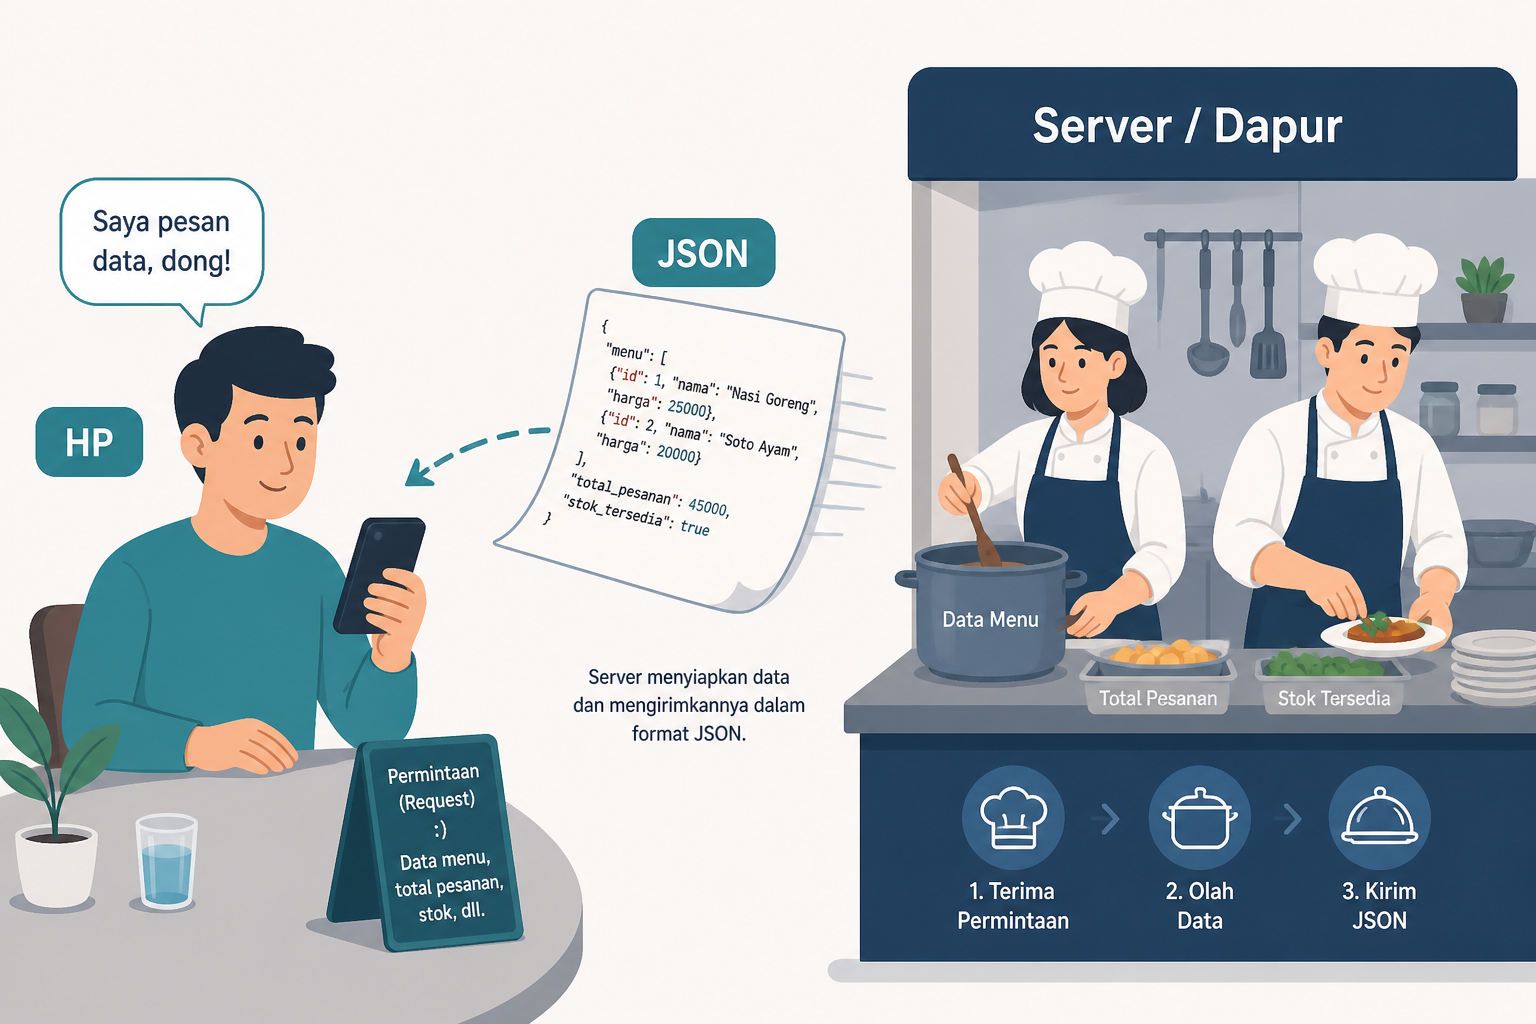
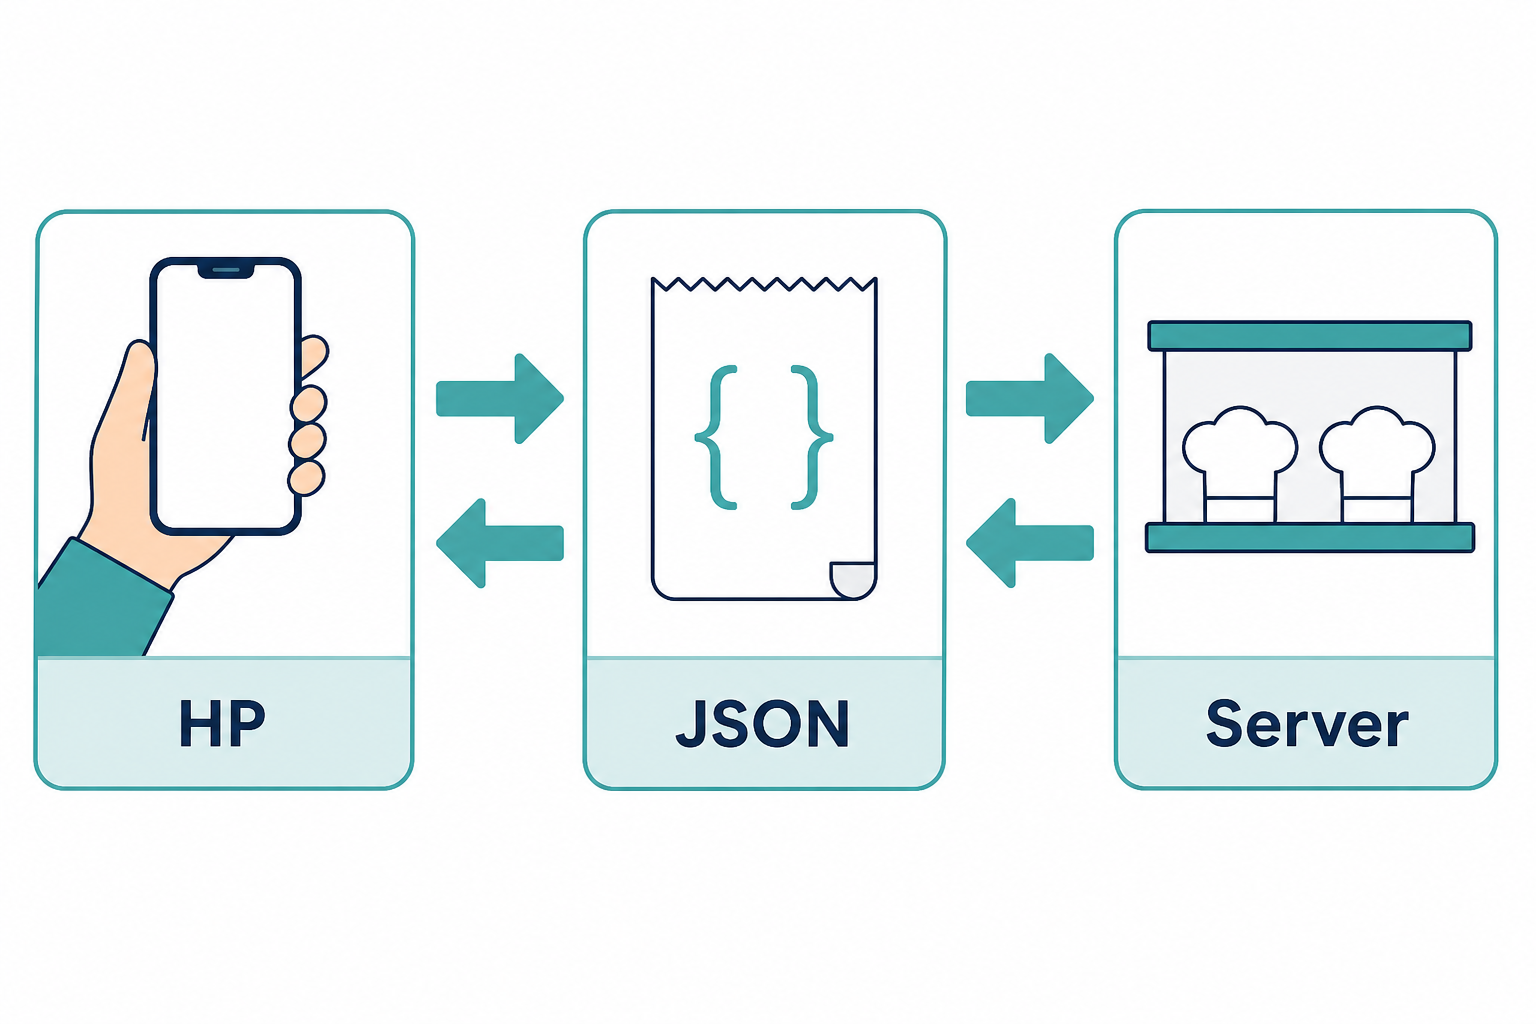
Replace garbled UI mockups with readable diagrams so GitHub articles stay clear.

diff --git a/modul-00-persiapan/README.md b/modul-00-persiapan/README.md
@@ -18,9 +18,14 @@ Sebelum mengetik perintah apa pun, lihat tabel ini. Salah alat = perintah "tidak
 | 5 | [Android Studio](https://developer.android.com/studio) | SDK Android, emulator, driver USB |
 | 6 | Emulator Android **atau** HP Android | Melihat aplikasi |
 
-![Urutan buka alat: peramban, VS Code, terminal, emulator](images/urutan-buka-alat.png)
+```mermaid
+flowchart LR
+  A["1. Peramban DartPad"] --> B["2. VS Code"]
+  B --> C["3. Terminal VS Code"]
+  C --> D["4. Emulator atau HP"]
+```
 
-*Ilustrasi asli materi mobile2026. Bukan tangkapan layar produk bermerek.*
+Teks di diagram itu sengaja singkat. Perincian ada di tabel di atas, supaya tidak ada tulisan kecil yang pecah saat GitHub mengecilkan gambar.
 
 ### Pintasan yang akan sering dipakai
 
@@ -45,9 +50,9 @@ Aplikasi mobile berbeda dari situs web dalam tiga hal yang terasa di tangan:
 
 Di belakang layar, aplikasi Anda tetap seperti restoran:
 
-![Analogi HP sebagai tamu, JSON sebagai nota, server sebagai dapur](images/analogi-hp-dapur.png)
+![Analogi: HP, JSON, dan server](images/analogi-hp-dapur.png)
 
-*Ilustrasi asli materi mobile2026.*
+*Ilustrasi asli materi mobile2026. Baca tabel di bawah ini untuk arti setiap kotak.*
 
 | Di restoran | Di aplikasi |
 | --- | --- |
@@ -59,7 +64,7 @@ Detail JSON dan HTTP ada di Modul 07. Sekarang cukup ingat: **tampilan dan data 
 
 ![Tiga lapisan: tampilan, logika Dart, data](images/tiga-lapisan-app.png)
 
-*Ilustrasi asli materi mobile2026.*
+*Ilustrasi asli materi mobile2026. Penjelasan lengkap ada di daftar bernomor di atas.*
 
 ---
 
@@ -69,7 +74,9 @@ Satu basis kode Dart dapat menjadi aplikasi Android dan iOS. Materi ini memakai 
 
 **Penting untuk Windows:** dari Windows Anda dapat membangun dan menguji **Android**. Membangun iOS memerlukan Mac. Konsep iOS tetap dijelaskan. Praktik rilis (Modul 10) berfokus ke Google Play Store.
 
-Sumber: [docs.flutter.dev/install](https://docs.flutter.dev/install).
+Sumber instalasi: [docs.flutter.dev/install](https://docs.flutter.dev/install).
+
+Diagram lapisan resmi Flutter SDK (boleh dibuka, tidak wajib dihapal sekarang): [Flutter architectural overview](https://docs.flutter.dev/resources/architectural-overview). Sumber: Flutter.dev / Google. Flutter and the related logo are trademarks of Google LLC.
 
 ---
 
@@ -92,11 +99,15 @@ void main() {
 }
 ```
 
-![Sketsa playground kode di peramban: editor, tombol Run, keluaran](images/uji-kode-peramban.png)
+Letak tombol di DartPad (tampilan sungguhan ada di situs resminya):
 
-*Ilustrasi asli materi mobile2026. Tampilan DartPad sungguhan bisa berbeda; yang penting ada editor, tombol Run, dan panel keluaran. Sumber alat: [dartpad.dev](https://dartpad.dev) (Dart team / Google).*
+```mermaid
+flowchart LR
+  A["Kiri: editor kode"] --> B["Tombol Run"]
+  B --> C["Kanan: Console / keluaran"]
+```
 
-Jika tombol Run tidak merespons, nonaktifkan pemblokir iklan untuk situs itu, atau ganti peramban.
+Sumber alat: [dartpad.dev](https://dartpad.dev) (Dart team / Google). Jika tombol Run tidak merespons, nonaktifkan pemblokir iklan untuk situs itu, atau ganti peramban.
 
 DartPad juga bisa menjalankan widget Flutter di web. Itu cukup untuk mencoba tampilan. **Emulator / HP tetap wajib** mulai proyek sungguhan, karena kamera, notifikasi, dan toko aplikasi tidak lengkap di DartPad.
 
@@ -493,10 +504,10 @@ Aplikasi **Halo, namaku …** berjalan di emulator atau HP, diubah dari templat 
 
 | Aset | Sumber |
 | --- | --- |
-| `images/urutan-buka-alat.png` | Ilustrasi asli materi mobile2026 |
 | `images/analogi-hp-dapur.png` | Ilustrasi asli materi mobile2026 |
 | `images/tiga-lapisan-app.png` | Ilustrasi asli materi mobile2026 |
-| `images/uji-kode-peramban.png` | Ilustrasi asli materi mobile2026; alat acuan [dartpad.dev](https://dartpad.dev) |
+| Diagram alur alat dan instalasi | Mermaid di berkas ini (dirender GitHub) |
+| DartPad | [dartpad.dev](https://dartpad.dev) |
 | Langkah instalasi Flutter SDK | [docs.flutter.dev/install/with-vs-code](https://docs.flutter.dev/install/with-vs-code) |
 | Android toolchain | [docs.flutter.dev/platform-integration/android/setup](https://docs.flutter.dev/platform-integration/android/setup) |
 | Troubleshooting | [docs.flutter.dev/install/troubleshoot](https://docs.flutter.dev/install/troubleshoot) |

diff --git a/modul-01-dart/README.md b/modul-01-dart/README.md
@@ -17,9 +17,14 @@ Hampir semua contoh di modul ini diuji di **DartPad**, supaya hasilnya terlihat 
 | 3 | Tombol **Run** | Menjalankan `main()` |
 | 4 | (Opsional) Terminal VS Code | `dart` lokal, setelah Modul 00 selesai |
 
-![Sketsa playground: editor, tombol Run, keluaran](images/uji-kode-peramban.png)
+```mermaid
+flowchart LR
+  A["1. Buka dartpad.dev"] --> B["2. Mode Dart"]
+  B --> C["3. Tempel kode + Run"]
+  C --> D["4. Baca Console"]
+```
 
-*Ilustrasi asli materi mobile2026. Tampilan DartPad sungguhan: [dartpad.dev](https://dartpad.dev).*
+Tampilan DartPad sungguhan: [dartpad.dev](https://dartpad.dev). Jangan memakai sketsa palsu sebagai acuan tombol; ikuti situs resmi.
 
 ### Pola uji (ulangi setiap contoh)
 
@@ -259,9 +264,9 @@ Jangan membiasakan `nama!` (tanda seru) kecuali Anda benar-benar yakin. Itu cara
 
 **Class** = cetakan. **Object** (instance) = hasil cetakan.
 
-![Cetakan kue sebagai class, cupcake sebagai object](images/analogi-class-object.png)
+![Cetakan kue sebagai class, hasil kue sebagai object](images/analogi-class-object.png)
 
-*Ilustrasi asli materi mobile2026.*
+*Ilustrasi asli materi mobile2026. Class = cetakan. Object = kue yang sudah jadi.*
 
 ```dart
 class Kue {
@@ -536,10 +541,9 @@ Kunci di akhir berkas. Jawab dulu.
 
 | Aset | Sumber |
 | --- | --- |
-| `images/uji-kode-peramban.png` | Ilustrasi asli materi mobile2026; alat acuan [dartpad.dev](https://dartpad.dev) |
 | `images/analogi-class-object.png` | Ilustrasi asli materi mobile2026 |
+| Alur uji DartPad | Mermaid di berkas ini; alat: [dartpad.dev](https://dartpad.dev) |
 | Bahasa Dart | [dart.dev/language](https://dart.dev/language) |
 | Null safety | [dart.dev/null-safety](https://dart.dev/null-safety) |
-| DartPad | [dartpad.dev](https://dartpad.dev) |
 
 Flutter and the related logo are trademarks of Google LLC. We are not endorsed by or affiliated with Google LLC.

diff --git a/SILABUS.md b/SILABUS.md
@@ -29,8 +29,8 @@ Supaya pembaca tidak menebak alat, setiap modul memakai pola yang sama:
 2. Setiap perintah punya kotak: buka apa, ketik apa, apa tanda berhasil.
 3. Sintaks Dart diuji di [DartPad](https://dartpad.dev) dulu, kecuali topik itu memang membutuhkan emulator atau HP.
 4. Perintah `flutter` / `git` / `dart` lokal diketik di **Terminal VS Code** (`Ctrl + J`), bukan di DartPad, bukan di pencarian Windows.
-5. Gambar punya sitasi di akhir modul dan di [docs/SUMBER-GAMBAR.md](docs/SUMBER-GAMBAR.md).
-6. EYD: *silakan* (bukan *silahkan*), imbuhan *di-* dirangkai, preposisi *di* dipisah, sapaan **Anda**.
+5. Gambar punya sitasi di akhir modul dan di [docs/SUMBER-GAMBAR.md](docs/SUMBER-GAMBAR.md). Ilustrasi **tidak** meniru UI produk (DartPad, VS Code) karena teksnya pecah di GitHub.
+6. EYD: *silakan* (bukan *silahkan*), imbuhan *di-* dirangkai, preposisi *di* dipisah, sapaan **Anda**. Alur langkah memakai diagram Mermaid, bukan infografis penuh kalimat.
 
 ---
 
@@ -43,6 +43,7 @@ Supaya pembaca tidak menebak alat, setiap modul memakai pola yang sama:
 | 14 Agu 2026 | Target Android API mengikuti dokumen Flutter (API 36 pada saat penulisan) | [Android setup](https://docs.flutter.dev/platform-integration/android/setup) |
 | 14 Agu 2026 | Visual Studio (C++) tidak wajib untuk jalur materi ini | Materi menargetkan Android, bukan desktop Windows |
 | 14 Agu 2026 | Setiap modul wajib tabel alat + sitasi gambar | Permintaan kejelasan alat uji dan sumber gambar |
+| 14 Agu 2026 | Sketsa UI palsu (DartPad/VS Code/emulator) dihapus; alur memakai Mermaid; ilustrasi hanya label singkat | Di GitHub, teks dalam PNG pecah dan terasa error |
 
 ---
 

diff --git a/README.md b/README.md
@@ -2,13 +2,13 @@
 
 Materi berbahasa Indonesia untuk merancang, membangun, dan menerbitkan aplikasi mobile yang punya **tampilan (frontend)** dan **layanan data (backend)**.
 
-Flutter and the related logo are trademarks of Google LLC. Materi ini tidak diendorsement dan tidak terafiliasi dengan Google LLC. Panduan merek: [docs.flutter.dev/brand](https://docs.flutter.dev/brand).
+Flutter and the related logo are trademarks of Google LLC. Materi ini tidak didukung secara resmi dan tidak terafiliasi dengan Google LLC. Panduan merek: [docs.flutter.dev/brand](https://docs.flutter.dev/brand).
 
 ---
 
 ## Buka alat ini terlebih dahulu
 
-Jangan langsung menyalin perintah. Setiap perintah di materi ini punya **alat yang harus dibuka dulu**. Ikuti kotak seperti ini:
+Jangan langsung menyalin perintah. Setiap perintah di materi ini punya **alat yang harus dibuka terlebih dahulu**. Ikuti kotak seperti ini:
 
 | Langkah | Yang dibuka |
 | --- | --- |
@@ -31,9 +31,9 @@ Aplikasi mobile modern biasanya punya tiga lapisan:
 2. **Logika** — aturan bisnis, ditulis dalam bahasa Dart
 3. **Data** — tersimpan di HP, di Firebase, atau di API HTTP
 
-![Tiga lapisan aplikasi: tampilan, logika Dart, dan data backend](modul-00-persiapan/images/tiga-lapisan-app.png)
+![Tiga lapisan aplikasi: tampilan, logika Dart, dan data](modul-00-persiapan/images/tiga-lapisan-app.png)
 
-*Ilustrasi asli materi mobile2026. Bukan logo atau aset merek Google.*
+*Ilustrasi asli materi mobile2026. Teks penjelasan ada di daftar di atas, bukan di dalam gambar, supaya tetap terbaca di GitHub.*
 
 ---
 

diff --git a/docs/SUMBER-GAMBAR.md b/docs/SUMBER-GAMBAR.md
@@ -13,14 +13,13 @@ Logo resmi Flutter **tidak** dijadikan elemen paling menonjol di halaman (sesuai
 
 ## Ilustrasi asli
 
+Gambar yang berisi banyak teks kecil (sketsa DartPad / VS Code palsu) **dihapus** pada 14 Agustus 2026: di GitHub tulisannya pecah dan terasa seperti error. Alur alat sekarang memakai diagram Mermaid. Ilustrasi hanya memakai label singkat; penjelasan ada di teks artikel.
+
 | Berkas | Dipakai di | Keterangan |
 | --- | --- | --- |
-| `modul-00-persiapan/images/urutan-buka-alat.png` | Modul 00, README | Urutan buka alat kerja |
-| `modul-00-persiapan/images/analogi-hp-dapur.png` | Modul 00 | Analogi tamu, nota JSON, dapur |
+| `modul-00-persiapan/images/analogi-hp-dapur.png` | Modul 00, README | Analogi HP, JSON, server |
 | `modul-00-persiapan/images/tiga-lapisan-app.png` | Modul 00, README | Tampilan, logika, data |
-| `modul-00-persiapan/images/uji-kode-peramban.png` | Modul 00, 01 | Sketsa playground kode (bukan UI resmi DartPad) |
-| `modul-01-dart/images/analogi-class-object.png` | Modul 01 | Cetakan vs hasil (class vs object) |
-| `modul-01-dart/images/uji-kode-peramban.png` | Modul 01 | Salinan sketsa playground |
+| `modul-01-dart/images/analogi-class-object.png` | Modul 01 | Class vs object |
 
 ## Alat dan dokumentasi yang diacu (bukan gambar yang disalin)
 
